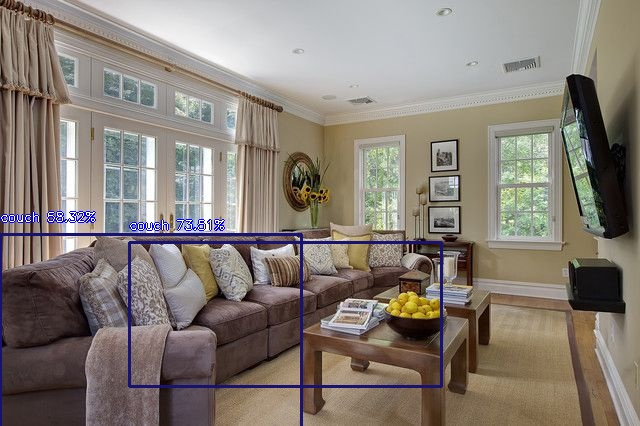
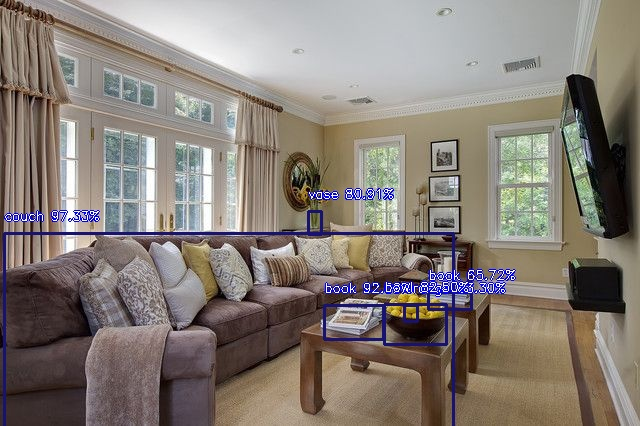
Test different models

Changed region(s): [[0.1875, 0.4272, 0.8125, 1.0], [0.0, 0.4883, 0.1562, 1.0]]

diff --git a/server/objDet.py b/server/objDet.py
@@ -4,11 +4,11 @@ from imageai.Detection import ObjectDetection
 
 detector = ObjectDetection()
 
-model_path = "./models/yolo-tiny.h5"
+model_path = "./models/resnet.h5"
 input_path = "./input/test2.jpeg"
-output_path = "./output/newimage3.jpg"
+output_path = "./output/newimage_resnet.jpg"
 
-detector.setModelTypeAsTinyYOLOv3()
+detector.setModelTypeAsRetinaNet()
 detector.setModelPath(model_path)
 detector.loadModel()
 
